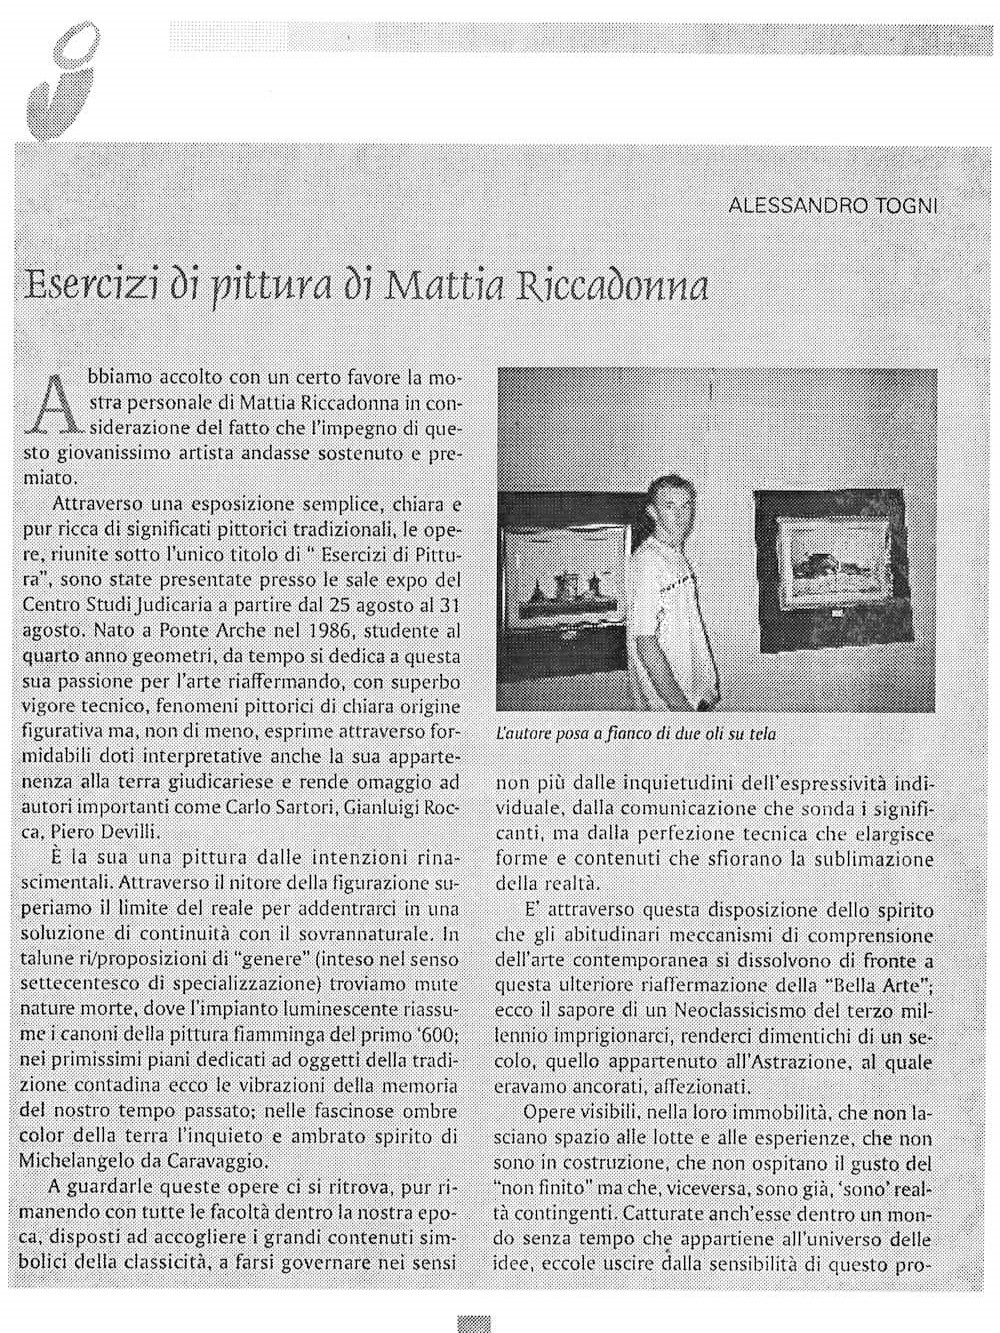
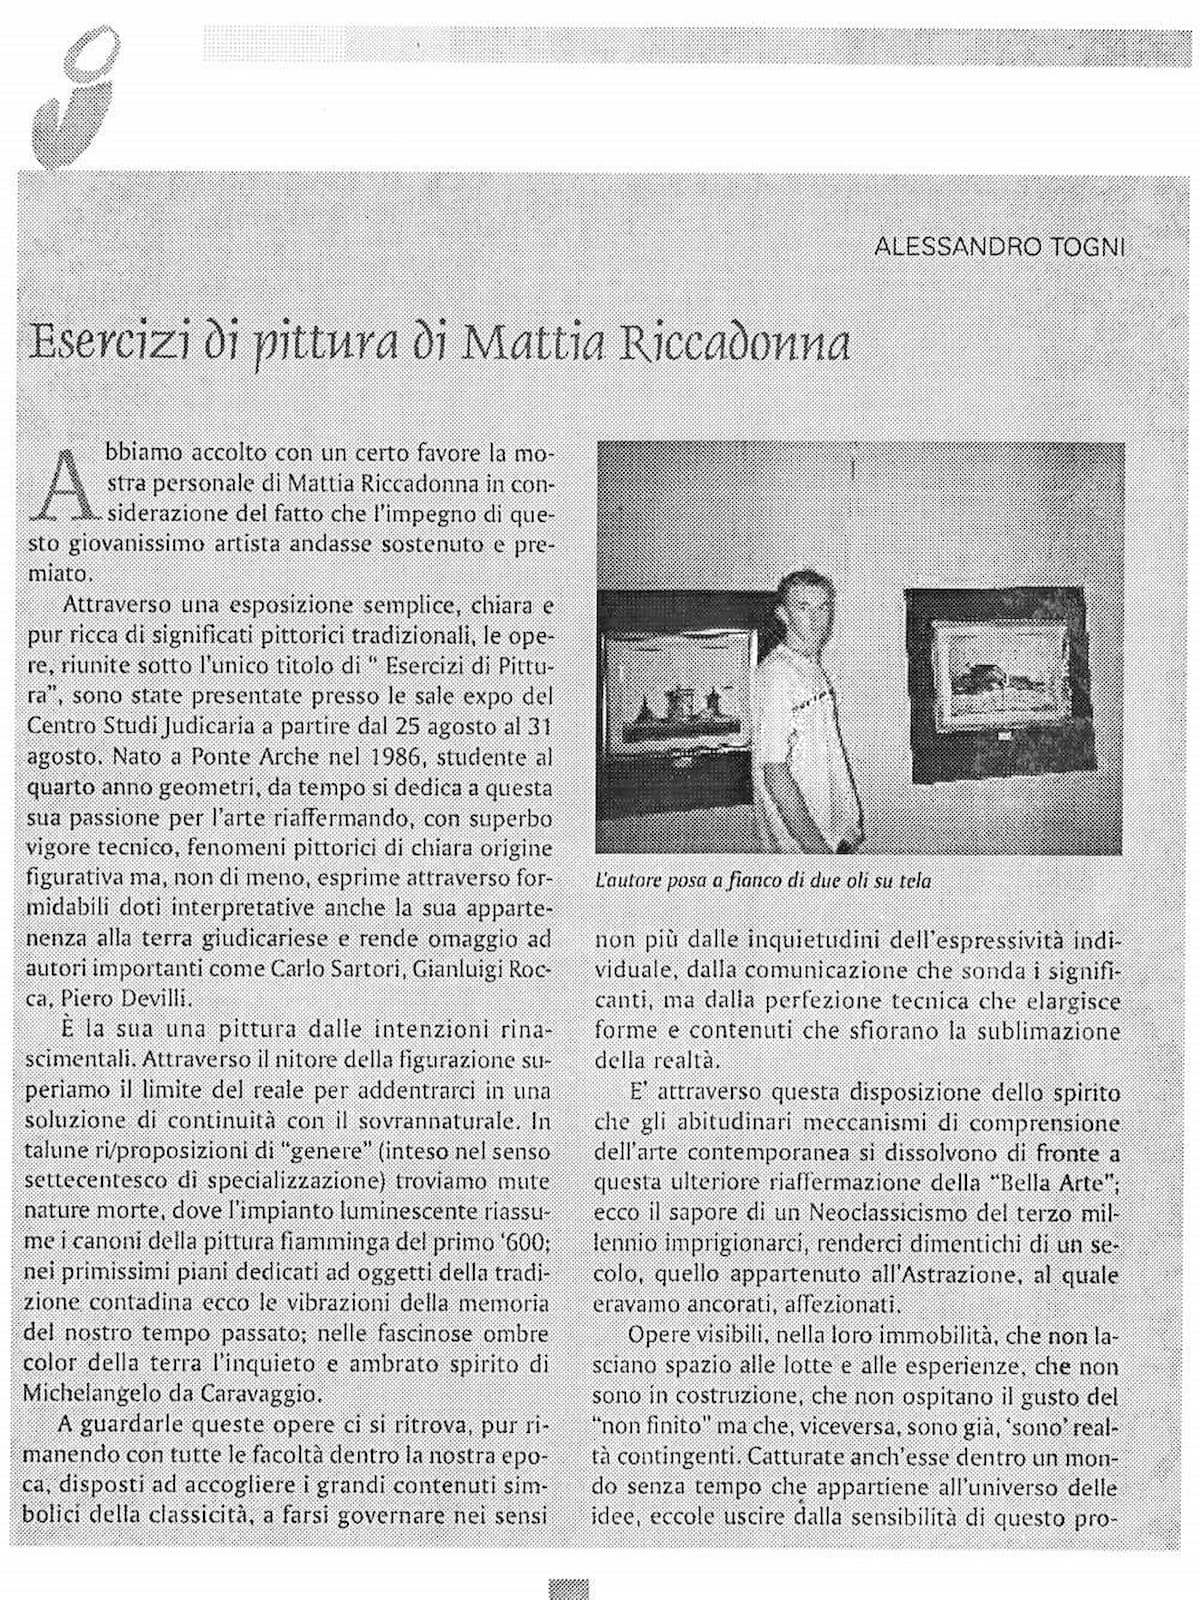
fix

Changed region(s): [[0.0, 0.0308, 0.992, 0.9535], [0.899, 0.0308, 0.93, 0.0615], [0.465, 0.9842, 0.496, 1.0]]

diff --git a/content/rassegna-stampa/centro-studi-judicaria.md b/content/rassegna-stampa/centro-studi-judicaria.md
@@ -1,5 +1,5 @@
 ---
-title: "Esercizi di pittura"
+title: "centro judicaria"
 date: 2003-08-25
 hideDate: true
 description: "Articolo del Centro Informa sulla mostra personale Esercizi di pittura di Mattia Riccadonna al Centro Studi Judicaria di Tione, agosto 2003."
